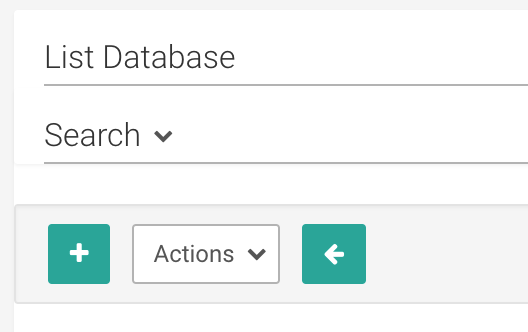
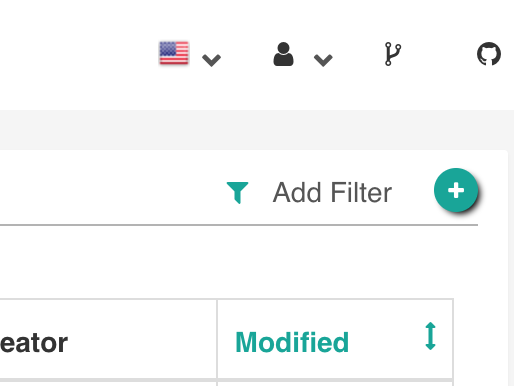
Fix tutorial doesn't match the current interface #4138 (#4215)

diff --git a/docs/tutorial.rst b/docs/tutorial.rst
@@ -23,7 +23,7 @@ Under the **Sources** menu, select the *Databases* option:
 .. image:: _static/img/tutorial/tutorial_01_sources_database.png
    :scale: 70%
 
-On the resulting page, click on the green plus sign, near the top left:
+On the resulting page, click on the green plus sign, near the top right:
 
 .. image:: _static/img/tutorial/tutorial_02_add_database.png
    :scale: 70%
